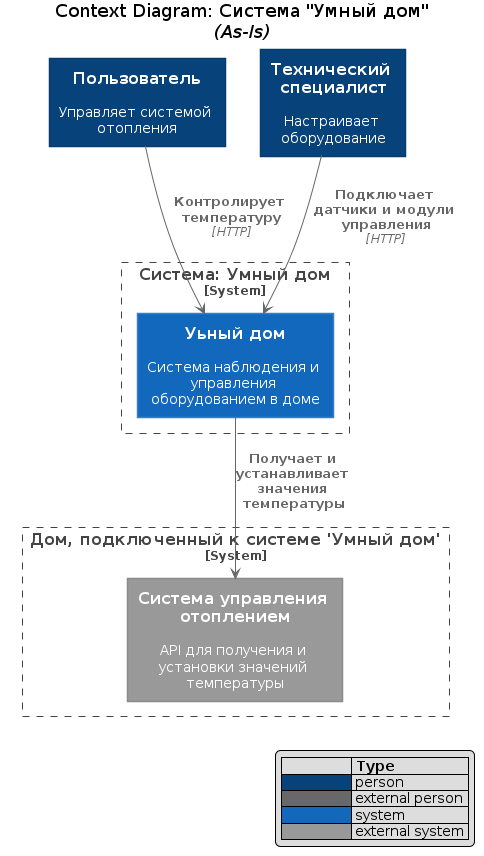
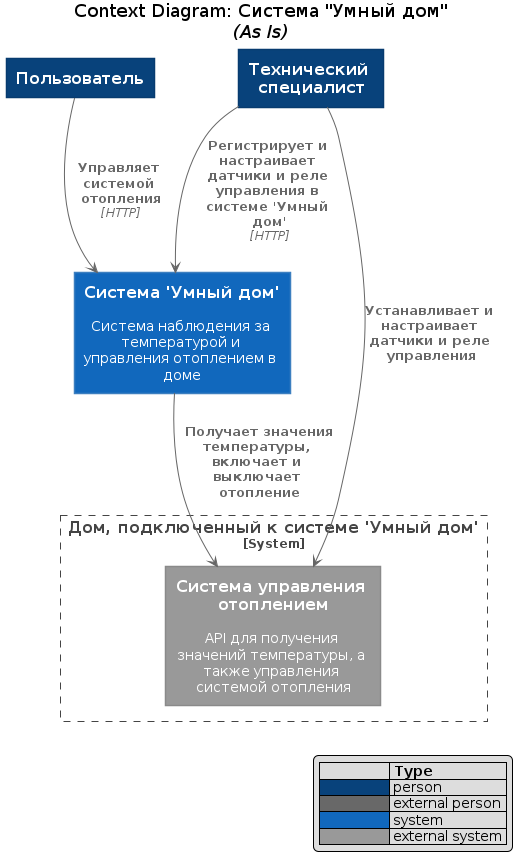
Задание 3. Разработка ER-диаграммы

Changed region(s): [[0.0, 0.0, 0.9298, 0.8201], [0.5579, 0.8505, 0.9917, 1.0], [0.124, 0.243, 0.155, 0.2734]]

diff --git a/README.md b/README.md
@@ -1,11 +1,5 @@
 # Задание 1. Анализ и планирование
 
-<aside>
-
-Чтобы составить документ с описанием текущей архитектуры приложения, можно часть информации взять из описания компании и условия задания. Это нормально.
-
-</aside
-
 ### 1. Описание функциональности монолитного приложения
 
 **Управление отоплением:**
@@ -44,25 +38,24 @@
 
 Описание доменов, поддоменов и ограниченных конекстов системы (To Be).
 
-- Домен (основной) - Удаленно е управление системами домов
-  - Поддомен - Упаравление устройствами
-    - Контекст - Регистрация, редактирование, удаление устройств.
+- Домен (основной) - Удаленное управление умным домом
+  - Поддомен - Устройства 
+    - Контекст - Управление устройствами
+  - Поддомен - Управление сисмемами в доме 
     - Контексе - Управление системой отопления 
     - Контексе - Управление системой освещения 
     - Контексе - Управление воротами 
   - Поддомен - Телеметрия
-    - Контекст - Сбор данных о температуре в помещениях
-    - Контексе - Сбор данных о текущем статусе приборов освещения
-    - Контексе - Сбор данных о текущем положении ворот
-  - Поддомен - Настройка сценариев работы
-    - Контекст - Управление сценариями работы
-- Домен (общий) - Управление безопасностью
+    - Контекст - Управление телеметрией и сбор данных
+  - Поддомен - Сценарии работы
+    - Контекст - Управление сценариями работы и их выполнение
+- Домен (общий) - Управление системой безопасности
     - Контекст - Аутентиффикация и авторизация
-- Домен (вспомогательный) - Управление пользователями
-    - Контекст - Регистрация пользователя
-    - Контекст - Профиль пользователя
+- Домен (вспомогательный) - Управление пользовательскими данными
+    - Контекст - Управление пользователями
+    - Контекст - Управление домами
 
- [Стратегический дизайн: Система "Умный дом"](schemas/DDD/smarthome.png)
+[Стратегический дизайн: Система "Умный дом"](schemas/DDD/smarthome.png)
 
 
 ### **4. Проблемы монолитного решения**
@@ -85,7 +78,7 @@
 
 **Диаграмма контейнеров (Containers)**
 
-Добавьте диаграмму.
+- [Container Diagram: Система "Уьный дом"](schemas/C4/container/smarthome_containers_diagram.png)
 
 **Диаграмма компонентов (Components)**
 
@@ -97,7 +90,7 @@
 
 # Задание 3. Разработка ER-диаграммы
 
-Добавьте сюда ER-диаграмму. Она должна отражать ключевые сущности системы, их атрибуты и тип связей между ними.
+- [ER Diagram: Система "Уьный дом"](schemas/ER/er_diagram.png)
 
 # Задание 4. Создание и документирование API
 
